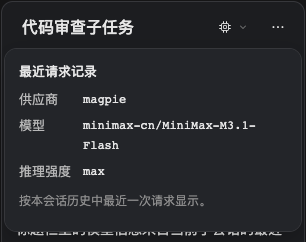
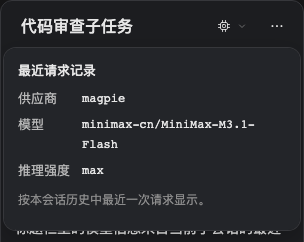
docs(assets): recapture the model badge from a demo catalog
The badge now names the recorded route, so the old screenshot showed only the
fallback shape. The fixture now supplies a small demo catalog: the chip reads
`M3.1-Flash · MiniMax Code` while the expanded panel keeps `magpie`,
`minimax-cn/MiniMax-M3.1-Flash` and `max`, which is exactly the evidence
split the component promises.

Recaptured both views with Playwright against the real contribution and the
installed header CSS, encoded to lossless WebP, and kept the PNG downloads.
Dimensions and the provenance note record the demo catalog; the image alt
text now matches what is visible. Verification counts move to 145 unit tests
now that the loader-tolerance case is covered.

diff --git a/packages/subagent-hub/README.md b/packages/subagent-hub/README.md
@@ -6,7 +6,7 @@
   <a href="https://github.com/ccsert/dsh-subagent-hub/releases/tag/v0.11.2"><img src="https://img.shields.io/badge/version-0.11.2-66c8ab" alt="Version 0.11.2"></a>
   <a href="https://github.com/ccsert/dsh-subagent-hub/blob/v0.11.2/LICENSE"><img src="https://img.shields.io/badge/license-MIT-blue" alt="MIT license"></a>
   <a href="https://github.com/ccsert/dsh-subagent-hub/blob/v0.11.2/docs/install.md"><img src="https://img.shields.io/badge/DSH_Desktop-0.12.1-7087ad" alt="Tested with DSH Desktop 0.12.1"></a>
-  <a href="https://github.com/ccsert/dsh-subagent-hub/blob/v0.11.2/CONTRIBUTING.md"><img src="https://img.shields.io/badge/verified-144_unit_%2B_33_runtime-66c8ab" alt="144 unit tests and 33 runtime assertions verified"></a>
+  <a href="https://github.com/ccsert/dsh-subagent-hub/blob/v0.11.2/CONTRIBUTING.md"><img src="https://img.shields.io/badge/verified-145_unit_%2B_33_runtime-66c8ab" alt="145 unit tests and 33 runtime assertions verified"></a>
 </p>
 
 <p align="center"><a href="https://github.com/ccsert/dsh-subagent-hub/blob/v0.11.2/README.md">简体中文</a> · <b>English</b></p>
@@ -44,7 +44,7 @@ Diagnostics replays committed tool results to show the latest 64 Hub guard rejec
 
 **The latest child request**
 
-![Child header with full provider, model ID and reasoning effort](https://raw.githubusercontent.com/ccsert/dsh-subagent-hub/v0.11.2/docs/assets/model-badge.webp)
+![Child header naming the model, with the full provider, model ID and reasoning effort in the details](https://raw.githubusercontent.com/ccsert/dsh-subagent-hub/v0.11.2/docs/assets/model-badge.webp)
 
 **Agent overview**
 
@@ -173,7 +173,7 @@ bash test.sh           # real DSH integration in a temporary DSH_HOME
 npm run pack:check     # inspect the distributable archive
 ```
 
-This release is verified by **144 unit tests and 33 real-runtime assertions**. Integration uses scripted model streams and makes no external model calls. CI runs unit, documentation, and package checks. See the [settings acceptance record](https://github.com/ccsert/dsh-subagent-hub/blob/v0.11.2/docs/ui-acceptance.md) and [model badge acceptance record](https://github.com/ccsert/dsh-subagent-hub/blob/v0.11.2/docs/model-badge-acceptance.md) for scope and limitations. [Team routing verification](https://github.com/ccsert/dsh-subagent-hub/blob/v0.11.2/docs/team-model-routing.md) covers the new creation checks.
+This release is verified by **145 unit tests and 33 real-runtime assertions**. Integration uses scripted model streams and makes no external model calls. CI runs unit, documentation, and package checks. See the [settings acceptance record](https://github.com/ccsert/dsh-subagent-hub/blob/v0.11.2/docs/ui-acceptance.md) and [model badge acceptance record](https://github.com/ccsert/dsh-subagent-hub/blob/v0.11.2/docs/model-badge-acceptance.md) for scope and limitations. [Team routing verification](https://github.com/ccsert/dsh-subagent-hub/blob/v0.11.2/docs/team-model-routing.md) covers the new creation checks.
 
 Issues and PRs are welcome. Read [CONTRIBUTING](https://github.com/ccsert/dsh-subagent-hub/blob/v0.11.2/CONTRIBUTING.md), the [design notes](https://github.com/ccsert/dsh-subagent-hub/blob/v0.11.2/docs/design.md), and the [release guide](https://github.com/ccsert/dsh-subagent-hub/blob/v0.11.2/docs/releasing.md). The previous v0.3.0 architecture remains available at its tag.
 

diff --git a/CHANGELOG.md b/CHANGELOG.md
@@ -5,10 +5,12 @@
 - 修复子会话模型标识只显示裸 id 的问题：配置页的模型选择器原本显示模型目录里的名称，而标题栏摘要拼的是 `provider · model id 尾段`，于是同一条路由在配置里是 `Qwen3.8-Flash · Qoder CN`，使用时却是 `magpie-anthropic · qfmodel`。
 - 标题栏摘要改为按配置页的同一份模型目录解析显示名（`modelCatalog` 的 `models[].name`），目录未列出该路由时回退到原来的 `provider · id 尾段`，因此不会出现臆造名称。
 - 目录每个客户端运行时只读一次，读取失败、被拒或为空都降级为裸 id，不阻塞也不隐藏徽标；只在确有请求记录或总览打开时才触发读取。
+- 读取改为可选调用：共用方传入没有 `load` 的普通 face 时不再抛错，显示名保持“可用即用、缺失即回退”，不会因为装配方式让整个徽标渲染失败。
 - 子智能体总览的“最近一次请求”同步使用显示名，并支持用名称搜索；展开的“下次请求计划”与徽标详情始终保留精确的 provider 与 model id 作为证据。
 - 新增 `modelBadge.summaryModel` 文案（中/英），并保持可访问名称与可见文本一致（label in name）。
+- 演示 fixture 补上模型目录，模型标识截图按新外观重录：胶囊显示名称，展开浮层仍显示记录的 provider、完整 model id 与推理强度。
 - 文档补充设计目的与推荐用法：主 agent 用最强（通常最贵）的模型负责拆解、审查与整合，把实现、测试、取证交给标注 `free`/`cheap` 的子 agent 路由；落地只需三件事——路由打标签、具名角色限定 cheap 路由、开启 `manageOfficialSettings`。同时写明前提与边界：Team 成员继承 Lead 模型、用 `spawn_teammate` 省不了贵模型用量；插件不校验价格、不做自动回退；子 agent 自身开销与拆分成本，以及深度判断应留在贵模型。中英文 README 与[设计说明](docs/design.md)同步。
-- 验证：144 项单测（新增 5 项，覆盖名称解析与 provider/model 配对、目录只读一次、四种降级路径、总览命名与名称搜索）、33 项隔离运行时断言、已安装 Desktop 原生插槽回归（新增有目录时的命名路径），以及 CI 的 `docs:check` 与 `pack:check` 全部通过。
+- 验证：145 项单测（新增 6 项，覆盖名称解析与 provider/model 配对、目录只读一次、四种降级路径、总览命名与名称搜索）、33 项隔离运行时断言、已安装 Desktop 原生插槽回归（新增有目录时的命名路径），以及 CI 的 `docs:check` 与 `pack:check` 全部通过。
 
 ## 0.11.1 — 两层白名单同步与市场收录准备
 

diff --git a/README.en.md b/README.en.md
@@ -6,7 +6,7 @@
   <a href="https://github.com/ccsert/dsh-subagent-hub/releases/tag/v0.11.2"><img src="https://img.shields.io/badge/version-0.11.2-66c8ab" alt="Version 0.11.2"></a>
   <a href="LICENSE"><img src="https://img.shields.io/badge/license-MIT-blue" alt="MIT license"></a>
   <a href="docs/install.md"><img src="https://img.shields.io/badge/DSH_Desktop-0.12.1-7087ad" alt="Tested with DSH Desktop 0.12.1"></a>
-  <a href="CONTRIBUTING.md"><img src="https://img.shields.io/badge/verified-144_unit_%2B_33_runtime-66c8ab" alt="144 unit tests and 33 runtime assertions verified"></a>
+  <a href="CONTRIBUTING.md"><img src="https://img.shields.io/badge/verified-145_unit_%2B_33_runtime-66c8ab" alt="145 unit tests and 33 runtime assertions verified"></a>
 </p>
 
 <p align="center"><a href="README.md">简体中文</a> · <b>English</b></p>
@@ -39,7 +39,7 @@ Uses official `subagent` / `subagent_fork` dispatch, Agent Presets, and conversa
 
 **The latest child request**
 
-![Child header with full provider, model ID and reasoning effort](docs/assets/model-badge.webp)
+![Child header naming the model, with the full provider, model ID and reasoning effort in the details](docs/assets/model-badge.webp)
 
 **Agent overview**
 
@@ -168,7 +168,7 @@ bash test.sh           # real DSH integration in a temporary DSH_HOME
 npm run pack:check     # inspect the distributable archive
 ```
 
-This release is verified by **144 unit tests and 33 real-runtime assertions**. Integration uses scripted model streams and makes no external model calls. CI runs unit, documentation, and package checks. See the [settings acceptance record](docs/ui-acceptance.md) and [model badge acceptance record](docs/model-badge-acceptance.md) for scope and limitations. [Team routing verification](docs/team-model-routing.md) covers the new creation checks.
+This release is verified by **145 unit tests and 33 real-runtime assertions**. Integration uses scripted model streams and makes no external model calls. CI runs unit, documentation, and package checks. See the [settings acceptance record](docs/ui-acceptance.md) and [model badge acceptance record](docs/model-badge-acceptance.md) for scope and limitations. [Team routing verification](docs/team-model-routing.md) covers the new creation checks.
 
 Issues and PRs are welcome. Read [CONTRIBUTING](CONTRIBUTING.md), the [design notes](docs/design.md), and the [release guide](docs/releasing.md). The previous v0.3.0 architecture remains available at its tag.
 

diff --git a/README.md b/README.md
@@ -6,7 +6,7 @@
   <a href="https://github.com/ccsert/dsh-subagent-hub/releases/tag/v0.11.2"><img src="https://img.shields.io/badge/version-0.11.2-66c8ab" alt="Version 0.11.2"></a>
   <a href="LICENSE"><img src="https://img.shields.io/badge/license-MIT-blue" alt="MIT license"></a>
   <a href="docs/install.md"><img src="https://img.shields.io/badge/DSH_Desktop-0.12.1-7087ad" alt="Tested with DSH Desktop 0.12.1"></a>
-  <a href="CONTRIBUTING.md"><img src="https://img.shields.io/badge/verified-144_unit_%2B_33_runtime-66c8ab" alt="144 unit tests and 33 runtime assertions verified"></a>
+  <a href="CONTRIBUTING.md"><img src="https://img.shields.io/badge/verified-145_unit_%2B_33_runtime-66c8ab" alt="145 unit tests and 33 runtime assertions verified"></a>
 </p>
 
 <p align="center"><b>简体中文</b> · <a href="README.en.md">English</a></p>
@@ -45,7 +45,7 @@
 
 **子会话的最近请求模型**
 
-![子会话标题栏的供应商、完整模型 id 与推理强度](docs/assets/model-badge.webp)
+![子会话标题栏显示模型名称，展开后是供应商、完整模型 id 与推理强度](docs/assets/model-badge.webp)
 
 **子智能体总览**
 
@@ -177,7 +177,7 @@ bash test.sh           # 真实 DSH 运行时集成验证，使用临时 DSH_HOM
 npm run pack:check     # 检查将交付的 npm 格式归档
 ```
 
-本版本验证了 **144 项单元测试和 33 项真实运行时断言**，并通过安装包中实际 Desktop 插槽注册器的独立回归。集成测试使用脚本化模型流，不调用外部模型。CI 运行单测、文档检查和打包检查；真实运行时验证另见[配置页验收](docs/ui-acceptance.md)、[模型标识验收](docs/model-badge-acceptance.md)和 [Team 路由验证](docs/team-model-routing.md)。
+本版本验证了 **145 项单元测试和 33 项真实运行时断言**，并通过安装包中实际 Desktop 插槽注册器的独立回归。集成测试使用脚本化模型流，不调用外部模型。CI 运行单测、文档检查和打包检查；真实运行时验证另见[配置页验收](docs/ui-acceptance.md)、[模型标识验收](docs/model-badge-acceptance.md)和 [Team 路由验证](docs/team-model-routing.md)。
 
 欢迎通过 [Issues](https://github.com/ccsert/dsh-subagent-hub/issues) 报告问题或提交 PR。架构、验证环境和发版步骤见 [CONTRIBUTING](CONTRIBUTING.md)、[设计说明](docs/design.md)和[发布指南](docs/releasing.md)。v0.3.0 的旧架构保留在对应 tag 中。
 

diff --git a/docs/assets/README.md b/docs/assets/README.md
@@ -19,11 +19,11 @@ The Hero is project artwork. It does not depict a working product screen. The se
 | [Models and roles](settings.webp) | 960 × 680 | Actual configuration component, demo data; cropped to its model and role sections |
 | [Full settings](settings-full.webp) | 960 × 1783 | Same actual component with an expanded role |
 | [Role editor](role-editor.webp) | 960 × 634 | Expanded role section |
-| [Model badge](model-badge.webp) | 978 × 222 | Actual header contribution and the installed official conversation header CSS |
-| [Narrow model badge](model-badge-narrow.webp) | 306 × 242 | The same component in a 320px viewport |
+| [Model badge](model-badge.webp) | 976 × 222 | Actual header contribution and the installed official conversation header CSS; the chip shows a demo catalog name, the panel the recorded ids |
+| [Narrow model badge](model-badge-narrow.webp) | 304 × 242 | The same component in a 320px viewport, where the chip label collapses and the panel carries the evidence |
 | [Agent overview](overview.webp) | 928 × 792 | Actual overview dialog with synthetic native session stores and the installed dark-theme token values |
 
-Screenshots were captured with Playwright and encoded to lossless WebP. Matching PNG files are retained. The fixtures use in-memory configuration and Session faces; no user profile, private conversation, provider credential, or external model response is included. UI controls were not redrawn or fabricated.
+Screenshots were captured with Playwright and encoded to lossless WebP. Matching PNG files are retained. The fixtures use in-memory configuration, Session faces, and a demo model catalog that only supplies display names; no user profile, private conversation, provider credential, or external model response is included. UI controls were not redrawn or fabricated.
 
 ## Market tile icon
 

diff --git a/docs/design.md b/docs/design.md
@@ -1,6 +1,6 @@
 # dsh-subagent-hub 设计（v2）
 
-> 状态：0.11.2（记录请求的模型标识显示模型名称；补充贵模型统筹用法文档），单元测试 144 项 + 真实运行时 e2e 33 项；另有浏览器交互验收。
+> 状态：0.11.2（记录请求的模型标识显示模型名称；补充贵模型统筹用法文档），单元测试 145 项 + 真实运行时 e2e 33 项；另有浏览器交互验收。
 > 目标运行时：`@deepseek-ai/dsh` 0.2.1-rc.2（DSH Desktop 0.12.1）。
 > 旧方案（M0–M4）完整保留在 git tag **v0.3.0**，作为回滚点。
 
@@ -202,7 +202,7 @@ v1 的 M0 spike（[`spikes/m0-runtime/README.md`](../spikes/m0-runtime/README.md
 
 ## 7. 测试与验收
 
-`bash test.sh`：144 项单元测试 + 33 项 e2e 断言（真实 `dsh`，临时 `DSH_HOME`，无模型凭据，`llm/stream` 脚本化）。
+`bash test.sh`：145 项单元测试 + 33 项 e2e 断言（真实 `dsh`，临时 `DSH_HOME`，无模型凭据，`llm/stream` 脚本化）。
 
 e2e 断言覆盖：具名预设注册成功；`manageOfficialSettings` 写入预设行与模型设置；路由表与 Host 设置一致；spawn 行拿到 allowlist、fork 行不动；主 agent 的官方 `subagent` schema 出现 `agent_preset` / `provider` / `model` / `reasoning_effort`；prompt 段落含目录；越界 `provider/model` 被守卫拒绝；具名 agent 通过 `agent_preset` 生效且 persona 含 instructions；省略路由时继承父路由；普通子 agent 不被具名守卫限制；client bundle 上架；配置行有可写表单；通过 Host settings 服务 live 新增具名 agent 后，预设、`allowedAgentPresets`、新会话 schema、persona 全部更新。
 

diff --git a/CONTRIBUTING.md b/CONTRIBUTING.md
@@ -23,7 +23,7 @@ bash test.sh
 
 The full suite requires a compatible installed DSH runtime. See [the e2e runner](packages/subagent-hub/test/e2e/run.sh) for discovery and override variables. It creates an isolated temporary `DSH_HOME`, registers the real bundle, exercises official subagent dispatch, and intercepts the model stream. No production profile or model account is used.
 
-Unit tests are suitable for CI without a DSH install. This release has 144 unit tests and 33 runtime assertions; the CI workflow runs units, documentation, and package checks. Runtime assertions are a separate local gate, not a claim that CI contacted real model providers.
+Unit tests are suitable for CI without a DSH install. This release has 145 unit tests and 33 runtime assertions; the CI workflow runs units, documentation, and package checks. Runtime assertions are a separate local gate, not a claim that CI contacted real model providers.
 
 The full runtime gate includes independent delegation, the opt-in native Team bundle, and a native slot-consumer regression. The latter reads the installed Desktop renderer (or SDK fallback) and checks the real list registration contract without controlling the user window. See [Team routing](docs/team-model-routing.md) for schema, inheritance, and rejected-member checks.
 
